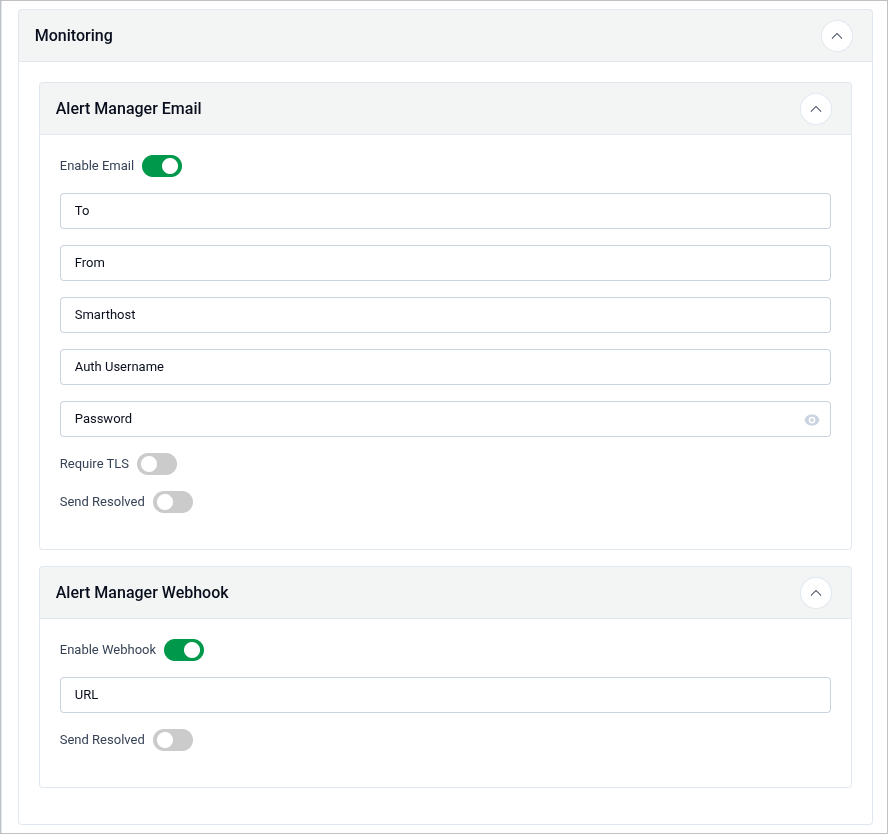
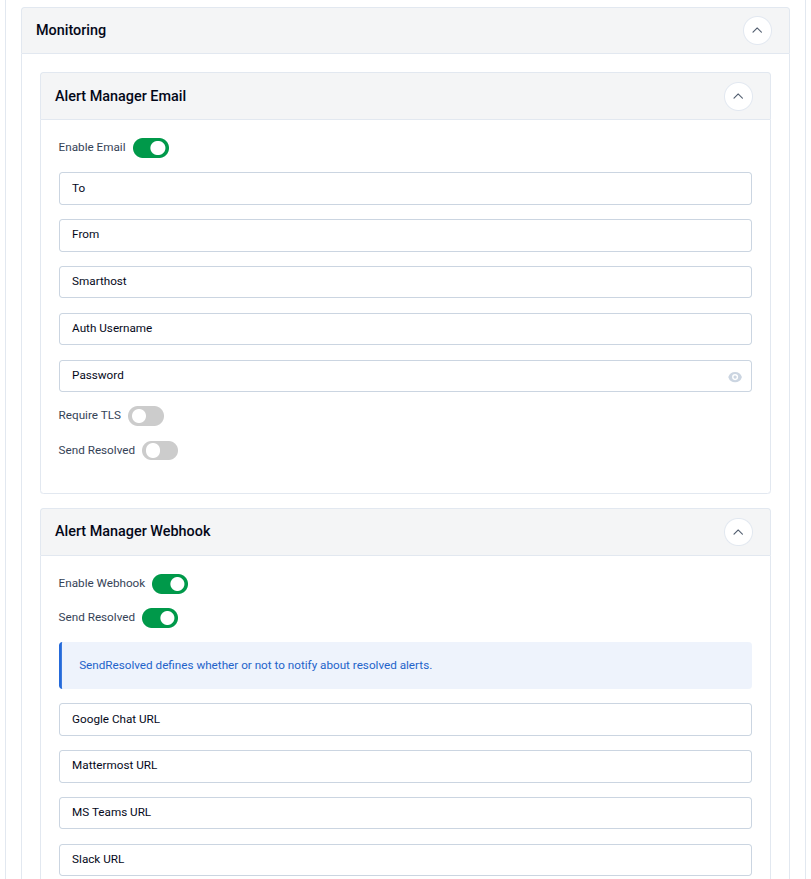
docs(monitoring): update alertmanager webhook configuration

diff --git a/docs/platform/selfhost-setup/install/common-config.md b/docs/platform/selfhost-setup/install/common-config.md
@@ -42,16 +42,17 @@ Use the **Monitoring** section to configure Alertmanager notifications for platf
   * **Password:** The SMTP password. For Gmail, use an App Password generated from `https://myaccount.google.com/apppasswords`.
   * **Require TLS:** Enables TLS for the SMTP connection. Leave this enabled for Gmail.
   * **Send Resolved:** Sends a follow-up notification when an alert returns to a healthy state.
-* **Alert Manager Webhook:** Send alerts to an endpoint that accepts Alertmanager's generic webhook payload.
+* **Alert Manager Webhook:** Send alerts to supported chat platforms using provider-specific webhook URLs.
   * **Enable Webhook:** Turns webhook delivery on or off.
-  * **URL:** The destination webhook URL. Some systems embed the secret directly in the URL.
   * **Send Resolved:** Sends a follow-up notification when an alert returns to a healthy state.
+  * **Google Chat URL:** The incoming webhook URL for a Google Chat space.
+  * **Mattermost URL:** The incoming webhook URL for a Mattermost channel.
+  * **MS Teams URL:** The incoming webhook URL for a Microsoft Teams channel.
+  * **Slack URL:** The incoming webhook URL for a Slack channel.
 
 <br/>
 
 ![Monitoring Alertmanager](../../images/monitoring-alertmanager.png)
-
-> **Tip:** For Google Chat, a supported workaround is to generate a space email address in Google Chat settings and use that address in the **To** field.
 
 ## TLS
 
